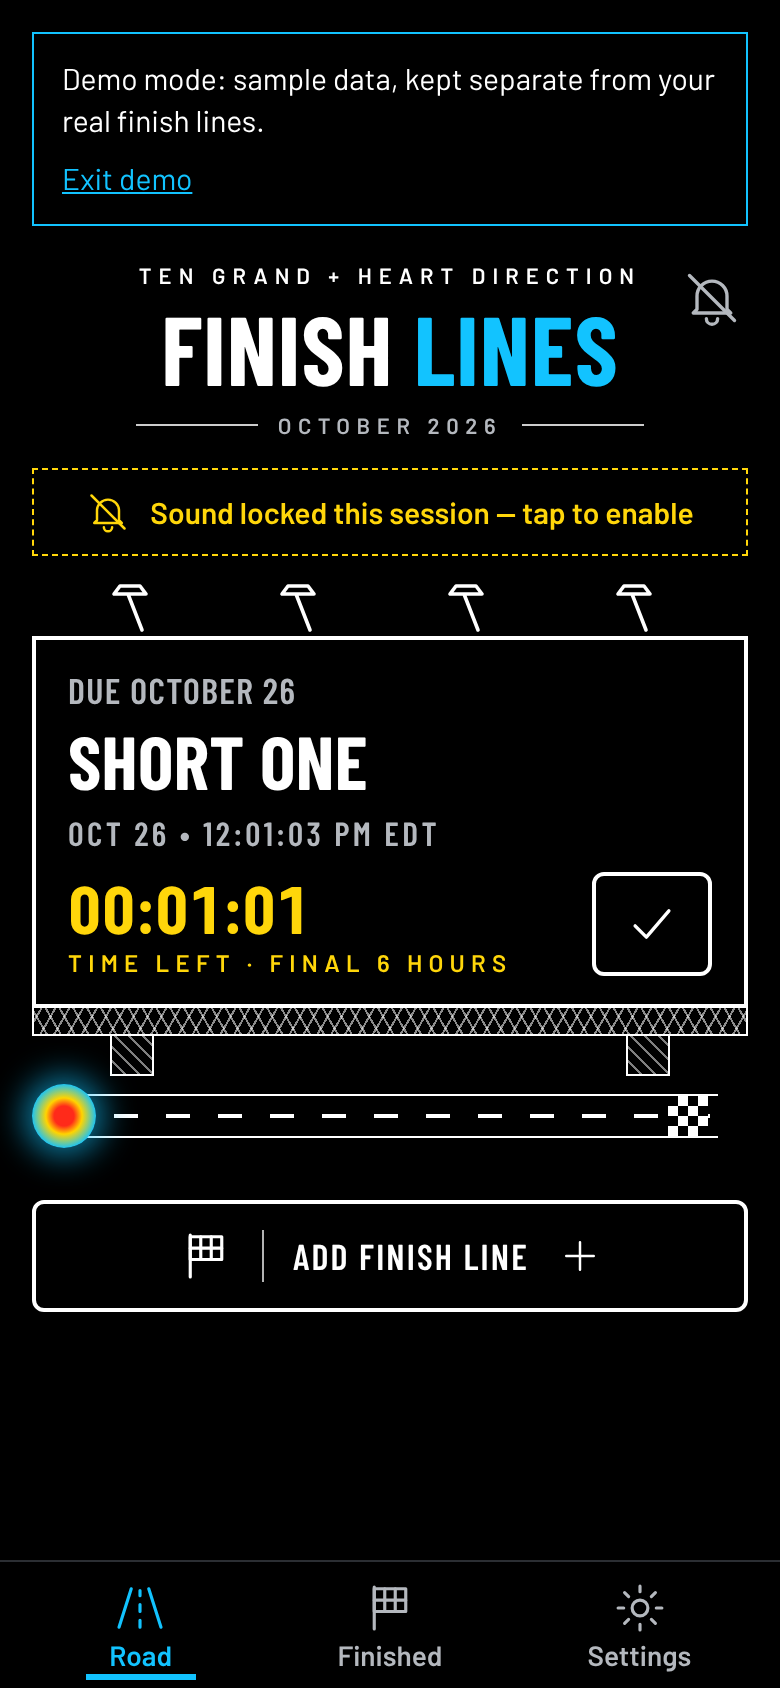
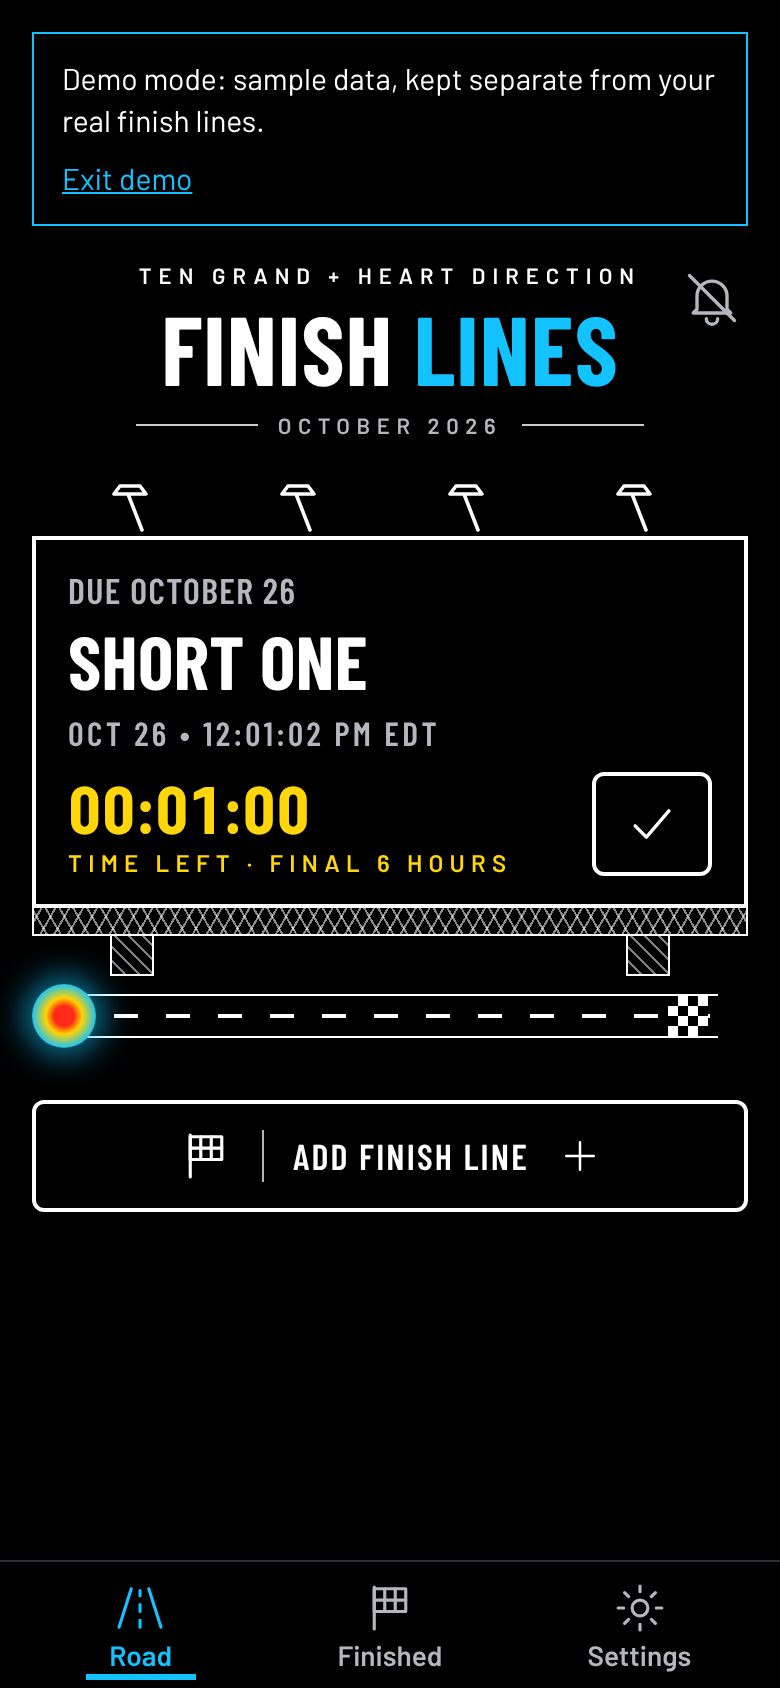
Remove sound-lock warning chip; unlock sound quietly on first tap
Claude-Session: https://claude.ai/code/session_012NRKkRVuCY1yd8EaZBVjeU

diff --git a/js/app.js b/js/app.js
@@ -9,7 +9,7 @@ import { formatShort } from './time.js';
 import { roadView, finishedView, settingsView, detailView, formView, bottomNav,
   alarmSheet, completionSheet, confirmSheet } from './views.js';
 
-const VERSION = '1.0.1';
+const VERSION = '1.0.2';
 const params = new URLSearchParams(location.search);
 const demo = params.get('demo');
 const KEY = demo ? 'finish-lines:demo:v1' : STORAGE_KEY;
@@ -211,10 +211,6 @@ A.setSettings = (partial) => {
   return res;
 };
 
-A.unlockSound = async () => {
-  const ok = await app.audio.unlock();
-  toast(ok ? 'Sound enabled for this session.' : 'Sound is still blocked. Try Test sound in Settings.');
-};
 
 A.exportBackup = () => {
   try {
@@ -394,6 +390,13 @@ function registerSW() {
     });
   }).catch(() => { /* offline support unavailable; the app itself still works */ });
 }
+
+/* Any first tap is a real user activation: quietly unlock sound so a later alert can be heard. */
+const quietUnlock = () => {
+  if (app.audio.enabled && app.audio.status === 'locked') app.audio.unlock();
+  if (app.audio.status !== 'locked') document.removeEventListener('pointerup', quietUnlock, true);
+};
+document.addEventListener('pointerup', quietUnlock, true);
 
 /* ---------- boot ---------- */
 applyMotion();

diff --git a/js/views.js b/js/views.js
@@ -143,15 +143,6 @@ export function roadView(app) {
   const range = formatRange(recs.map((r) => r.deadlineAt), data.settings.defaultTimeZone);
   const root = h('div', { class: 'view road-view' }, pageHeader(app, { title: 'FINISH LINES', subtitle: range }));
 
-  const chip = h('button', { type: 'button', class: 'sound-chip', hidden: true, onClick: () => app.actions.unlockSound() },
-    icon('bellOff'), 'Sound locked this session — tap to enable');
-  const paintChip = () => {
-    const needs = recs.some((r) => r.alertEnabled) && app.audio.status === 'locked';
-    chip.hidden = !needs;
-  };
-  paintChip(); app.audioHooks.add(paintChip);
-  root.append(chip);
-
   if (!recs.length) {
     root.append(h('section', { class: 'empty', 'aria-labelledby': 'empty-title' },
       h('div', { class: 'road empty-road', 'aria-hidden': 'true' }, h('div', { class: 'track' }, h('div', { class: 'dashes' }), h('div', { class: 'flag', style: `left:${pct(FLAG_POSITION)}` })), h('div', { class: 'lane' }, h('div', { class: 'orb', style: 'left:0%' }))),

diff --git a/css/styles.css b/css/styles.css
@@ -63,8 +63,6 @@ svg { display: block; }
 .toast { position: fixed; left: 50%; transform: translateX(-50%); top: calc(env(safe-area-inset-top, 0px) + 10px); z-index: 60; width: min(92vw, 520px);
   background: #101214; border: 1px solid var(--fg); padding: 12px 16px; font-size: 15px; text-align: center; }
 
-.sound-chip { display: flex; align-items: center; justify-content: center; gap: 10px; width: 100%; min-height: 44px; margin: 0 0 14px; padding: 8px 12px; background: none; color: var(--yellow); border: 1px dashed var(--yellow); font: 600 15px var(--body); }
-.sound-chip svg { width: 22px; height: 22px; flex: none; }
 
 /* ---------- Buttons ---------- */
 .btn, .btn-add, .btn-mark {

diff --git a/sw.js b/sw.js
@@ -2,7 +2,7 @@
 // Each release owns one versioned cache, filled completely at install. A new version waits until the
 // user taps "Reload to update", so a page is never served half old / half new files.
 
-const VERSION = '1.0.1';
+const VERSION = '1.0.2';
 const PREFIX = 'finish-lines-shell-';
 const CACHE = PREFIX + VERSION;
 

diff --git a/README.md b/README.md
@@ -42,7 +42,7 @@ The app is the repository root; there is nothing to build.
 
 This is a static page. **No alarm or push notification is promised while Safari is suspended, the app is closed, or the phone is locked.** The service worker only caches the app shell; it is not a scheduler.
 
-- A *Finish Line Alert* plays a short Web Audio chime (repeating, max 20 s) **only while the app is open and visible**, and only after sound has been unlocked by a tap (Enable sound / Test sound / turning the alert on / saving with the alert on). After a reload sound is locked again; a "tap to enable" chip appears on the Road, and Settings states the real status.
+- A *Finish Line Alert* plays a short Web Audio chime (repeating, max 20 s) **only while the app is open and visible**, and only after sound has been unlocked by a tap (Enable sound / Test sound / turning the alert on / saving with the alert on). After a reload sound is locked again until your first tap anywhere in the app (it unlocks quietly); Settings states the real status.
 - Each alert fires once per record + deadline revision. Refreshing doesn't repeat it; editing the deadline cancels the old event; past deadlines never ring retroactively; simultaneous deadlines queue instead of overlapping.
 - If the deadline passed while the app was away, you get a quiet banner once and the counter shows accurate overtime.
 - iPhone's Ring/Silent switch silences Web Audio. Keep the screen awake.
